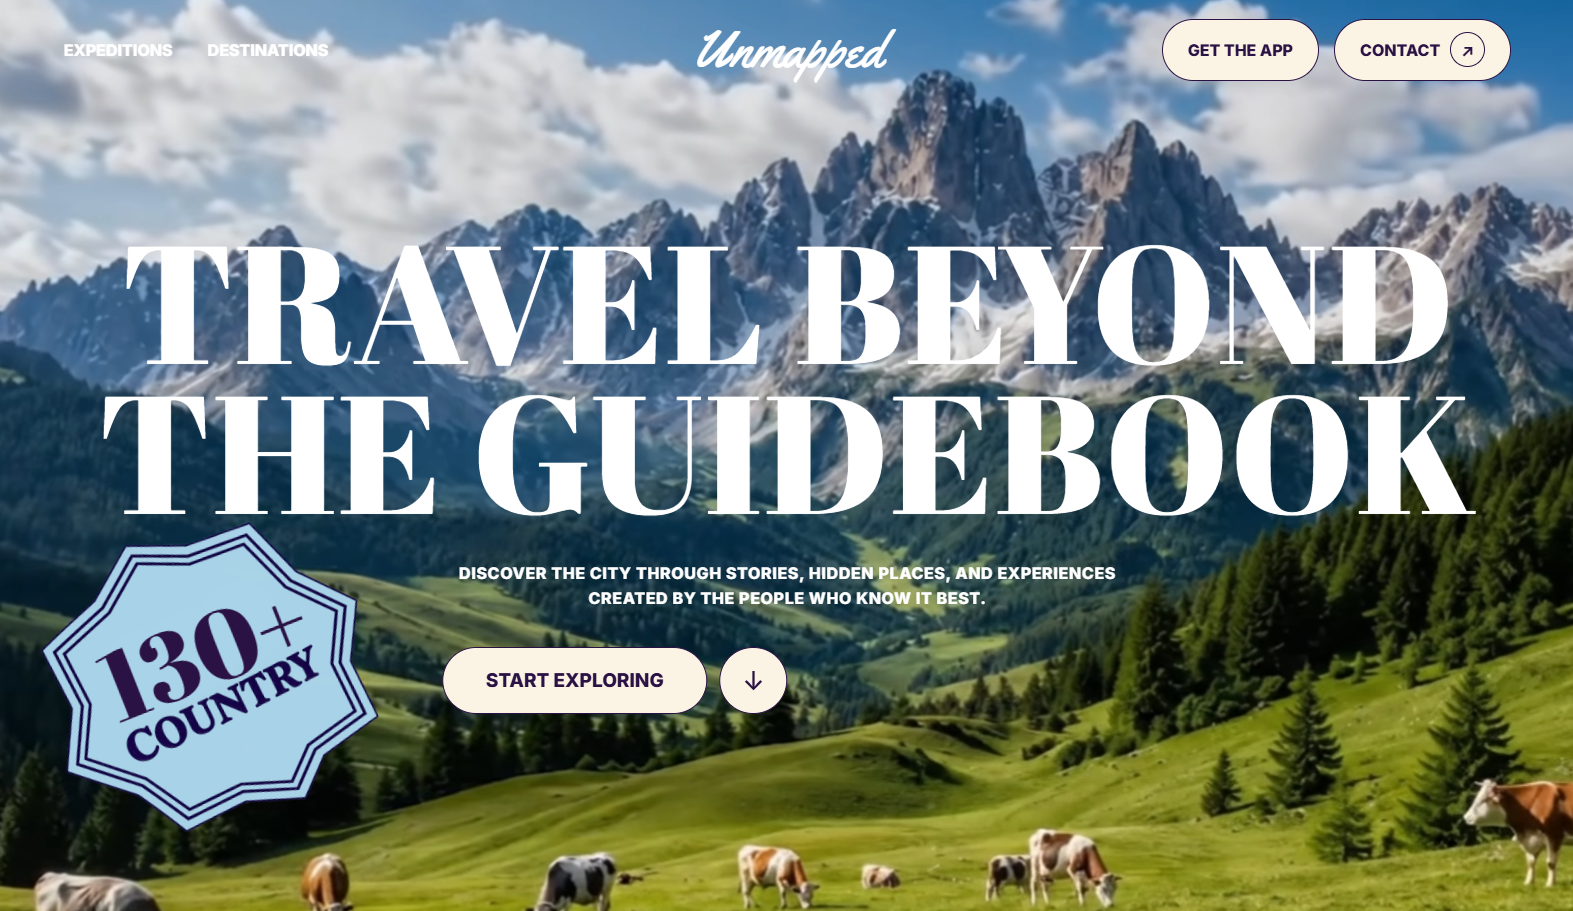
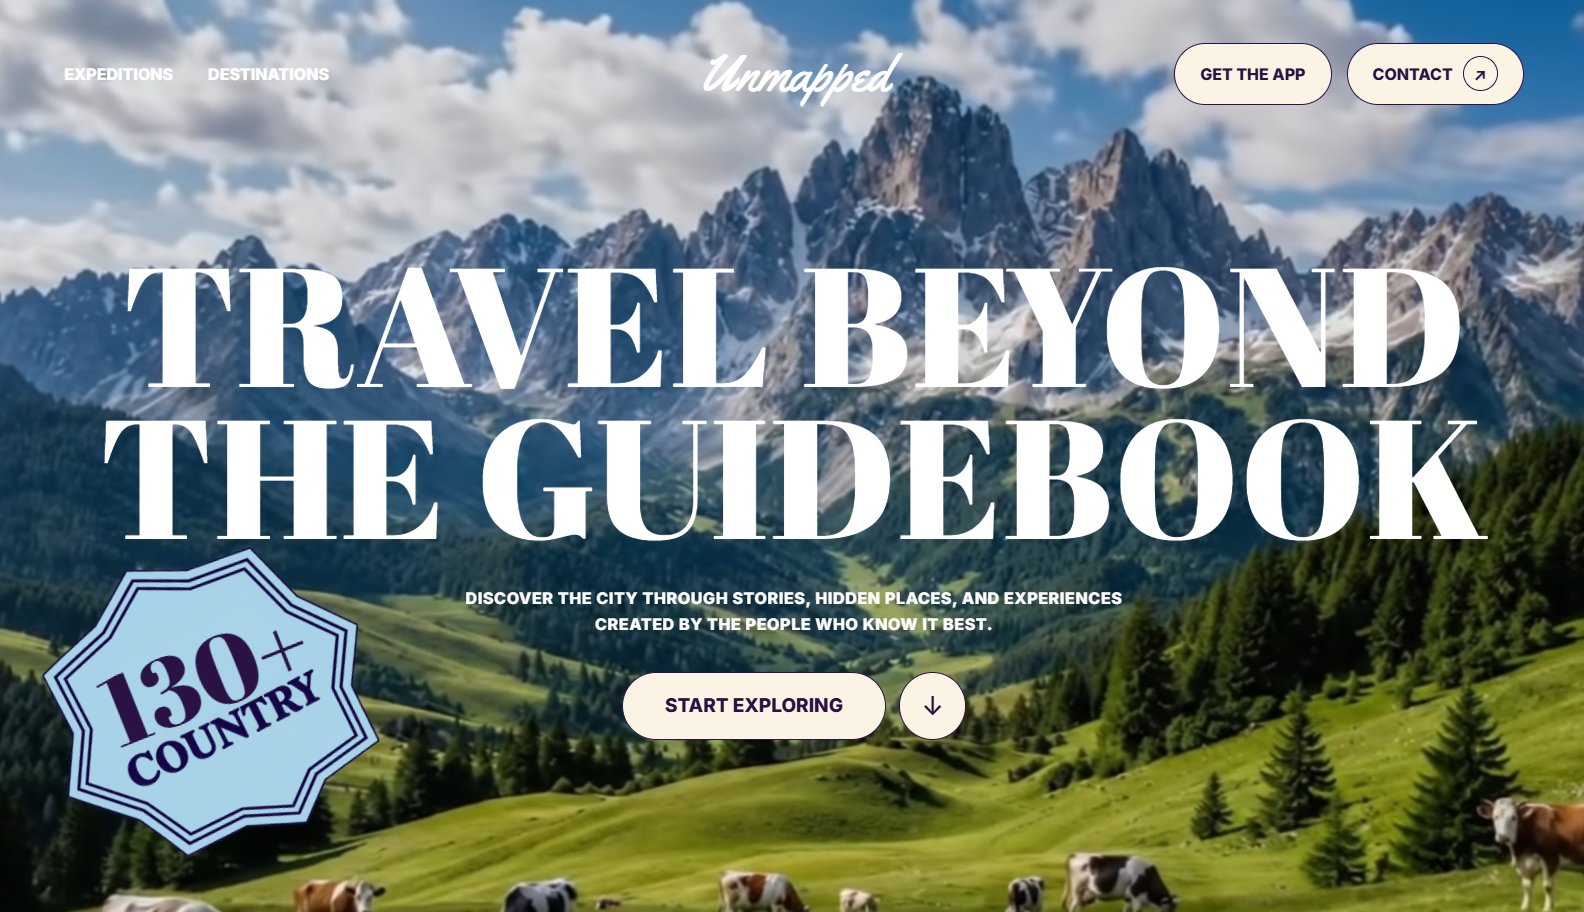
project updates

diff --git a/index.html b/index.html
@@ -379,7 +379,7 @@
               <!-- Use the SAME URL as this project's arrow button -->
               <a class="project__shot-link" href="https://unmapped-zeta.vercel.app/"  target="_blank" rel="noopener noreferrer" tabindex="-1" aria-hidden="true">
               <!-- ★ REPLACE IMAGE 1 HERE -->
-              <img src="assets/unmapped.png" alt="Preview of the Nexa Digital agency website" width="1200" height="750" loading="lazy" data-fallback="Nexa Digital" />
+              <img src="assets/unmapped1.jpeg" alt="Preview of the Nexa Digital agency website" width="1200" height="750" loading="lazy" data-fallback="Nexa Digital" />
               </a>
             </div>
           </div>
